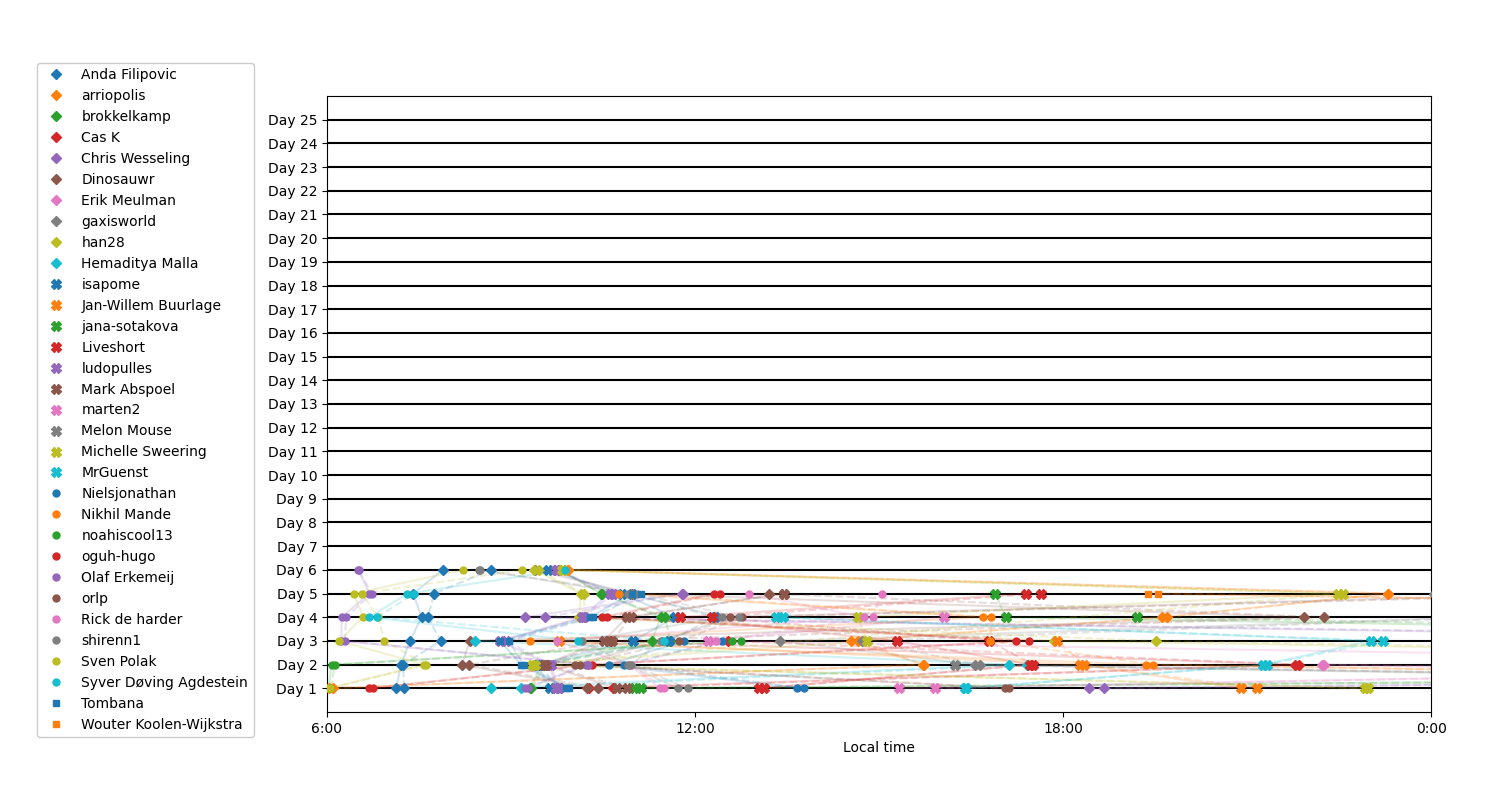
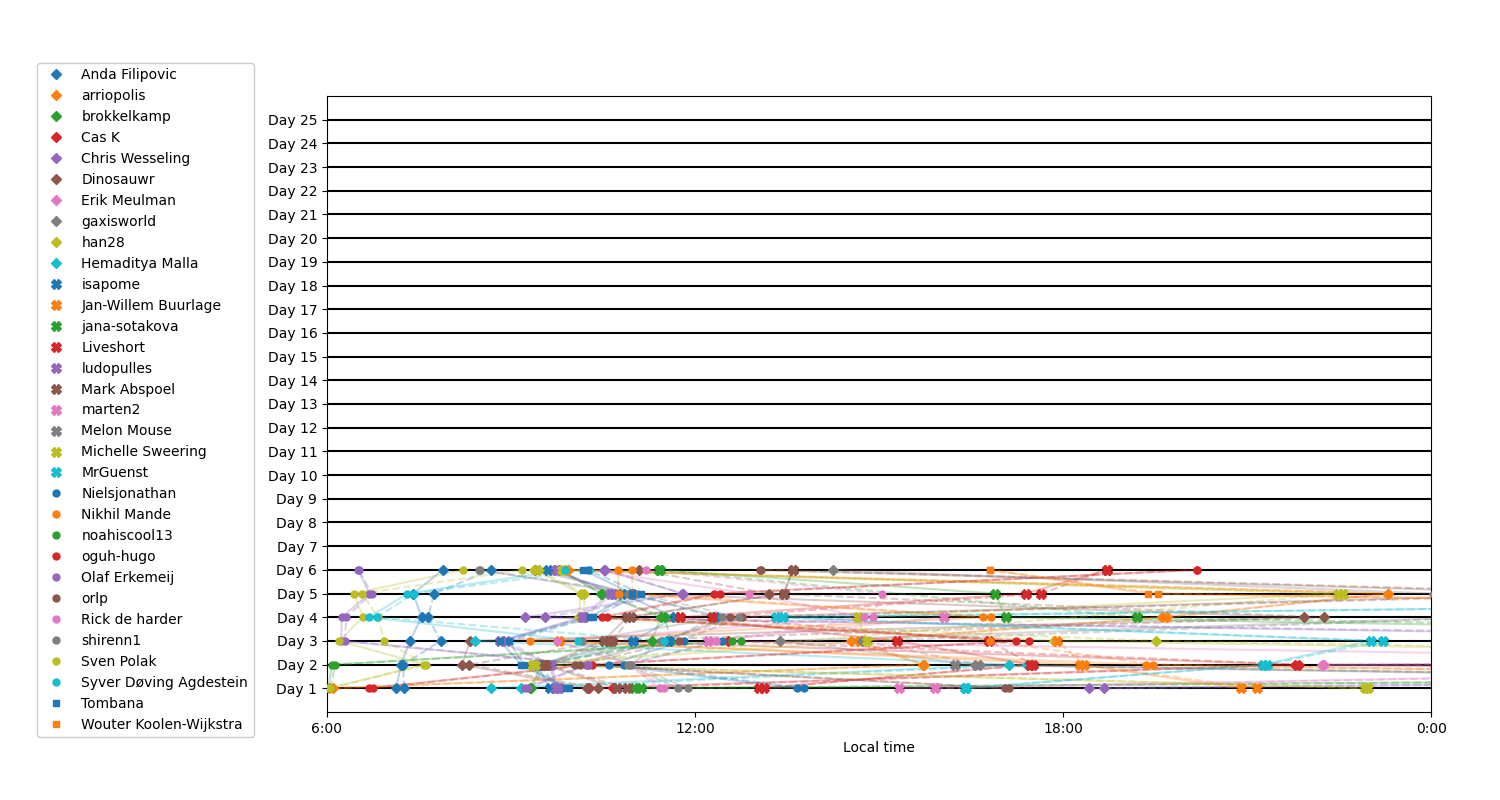
Updated the scores.

Changed region(s): [[0.276, 0.6875, 0.9507, 0.875], [0.8893, 0.8125, 0.9507, 0.8438], [0.8587, 0.8438, 0.8893, 0.875]]

diff --git a/scoreboard/visualize.py b/scoreboard/visualize.py
@@ -39,7 +39,7 @@ for i,(name,res) in enumerate(sorted(results.items(), key = lambda x : x[0].lowe
         marker = MARKERS[i//len(COLORS)]
         markersize = MARKERSIZES[i//len(COLORS)]
         ax.plot(xs, ys, marker = marker, markersize = markersize, linestyle = '', color = color, label = name if j == 0 else None, zorder = 10)
-        ax.plot(xs, ys, color = color, linestyle = '--' if j == 1 else '-', alpha = .2)
+        ax.plot(xs, ys, color = color, linestyle = '--' if j == 1 else '-', alpha = .3, linewidth = 1.5)
 
 box = ax.get_position()
 ax.set_position([box.x0 + .12*box.width, box.y0, .95*box.width, box.height])
